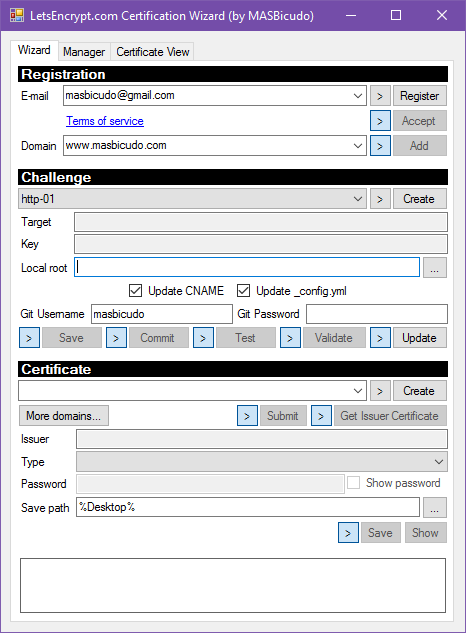
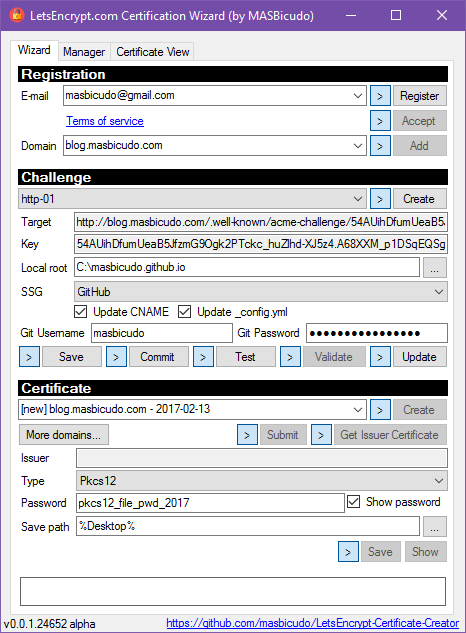
README.md - about the SSG

diff --git a/README.md b/README.md
@@ -9,7 +9,7 @@ actually, you can use it with any site you can write to.
 You name it... for example, *Microsoft Windows Azure*. It's ok.
 If you settup your Windows Azure with Git publish you're done.
 
-## It's all automatic, except for DNS setup
+## It's all automatic
 
 The application is very simple. You fill all the fields with your information,
 click a button and it does everything that's needed to create the certificate.
@@ -42,6 +42,10 @@ When you open the program you will see this window:
  - **Target** and **Key** are just there for information. They get filled when the challenge is created.
  - **Local root**: is the root of your static site repository.
     Point to that repository so the files that are needed for the challenge are created for you.
+ - **SSG**: is the static site generator being used.
+    Each SSG needs it's own set of files and patches so that the challenge file is exposed.
+    If your SSG is not in the list, open an issue, and consider creating a pull request. =D
+    Also, you can always do this step manually, creating only the challenge file and setting up the SSG manually.
  - **Git username**: the username that will be used to push the needed files back to the origin (e.g. GitHub or GitLab).
  - **Git password**: guess what
 
@@ -99,4 +103,4 @@ In this tutorial I will guide you in the process of creating a
 certificate for a site hosted at GitLab pages.
 The focus will be the usage of the tool, and not GitLab pages.
 
-... too late now, have to sleep...
+... soon ...
